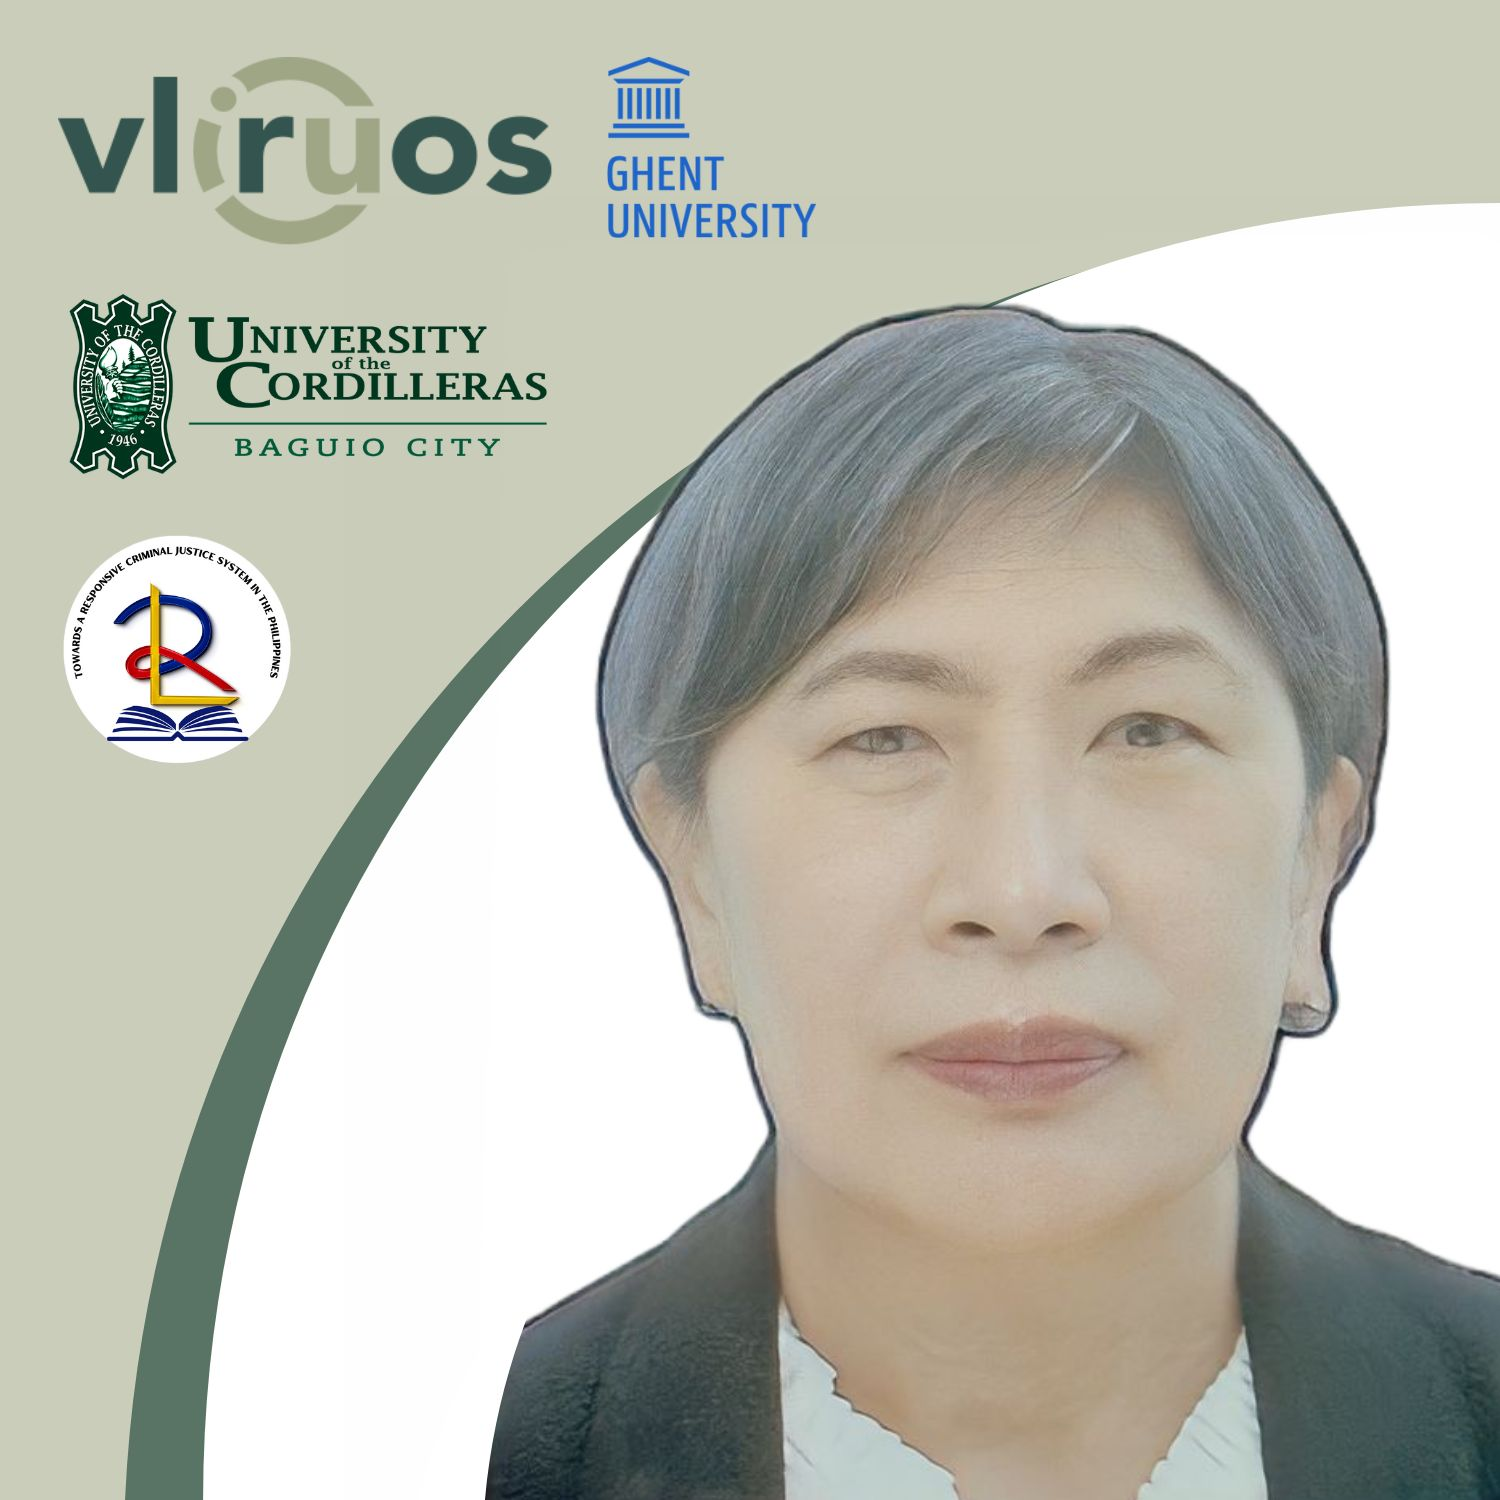
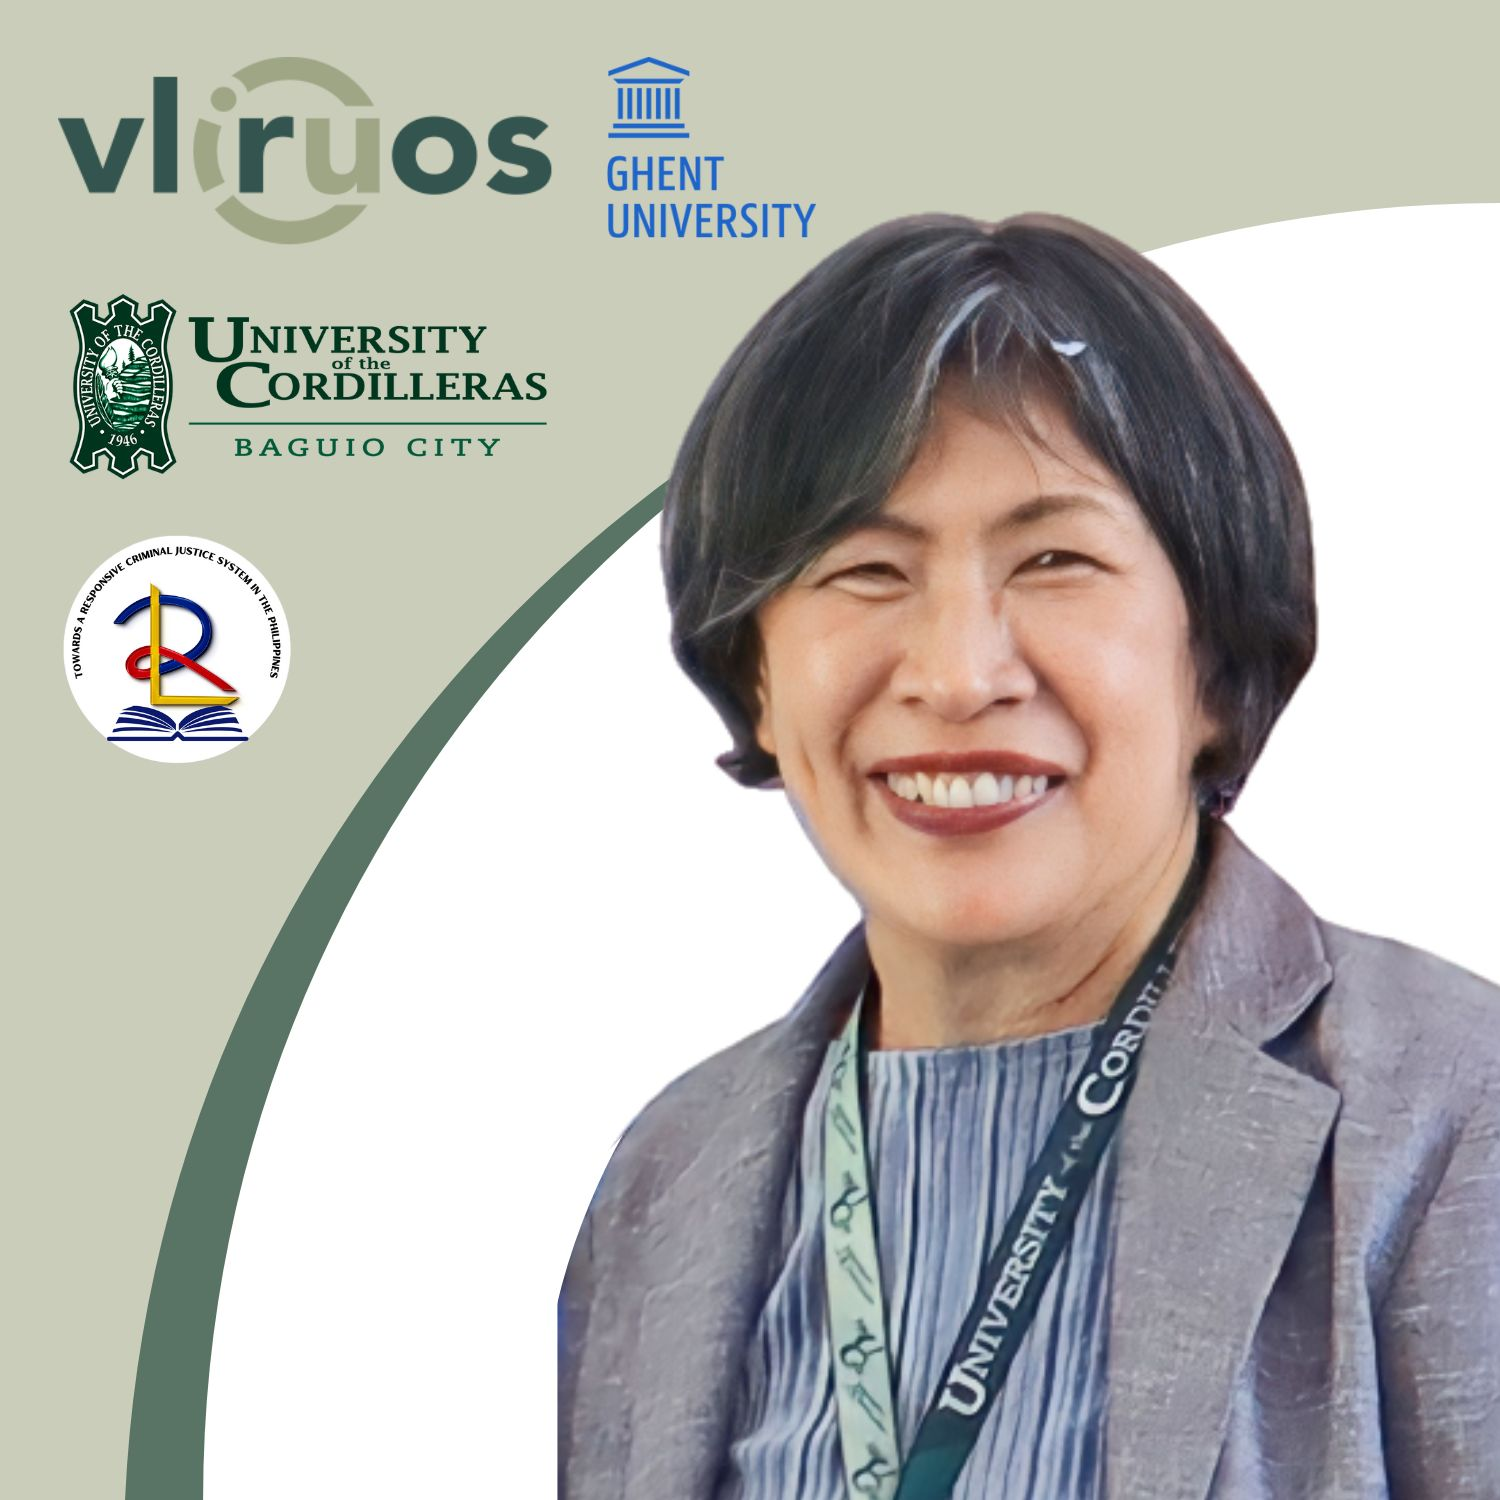
Add remaining members of UC Team, including assets, and replace photo for Ma'am Darlyn.

diff --git a/src/data/teamUC.js b/src/data/teamUC.js
@@ -11,21 +11,21 @@ const teamUC = [
     image: 'darlyn-tagarino.jpg',
     //name: "Sarah",
     title: 'Dr. Darlyn Tagarino',
-    description: 'Dr. Darlyn is a faculty of Criminal Justice Education at University of the Cordilleras. She is the Lead in Domain 5-A',
+    description: 'Dr. Darlyn is a faculty of Business Administration at University of the Cordilleras. She is the Lead in Domain 5-A.',
   },
   {
     id: 3,
     image: 'robino-cawi.jpg',
     //name: "David",
     title: 'Dr. Robino Cawi',
-    description: 'Dr. Robino is the dean of Criminal Justice Education at University of the Cordilleras. He is the Lead in Domain 1-A',
+    description: 'Dr. Robino is the dean of Criminal Justice Education at University of the Cordilleras. He is the Lead in Domain 1-A.',
   },
   {
     id: 4,
     image: 'thelma-palaoag.jpg',
     //name: "Sarah",
     title: 'Dr. Thelma Palaoag',
-    description: 'Dr. Thelma is a faculty of Information Technology and Computer Science at University of the Cordilleras. She is the Lead in Domain 2-A',
+    description: 'Dr. Thelma is a faculty of Information Technology and Computer Science at University of the Cordilleras. She is the Lead in Domain 2-A.',
   },
   {
     id: 5,
@@ -36,17 +36,45 @@ const teamUC = [
   },
   {
     id: 6,
-    image: 'anon.png',
+    image: 'cherry-cabarrubias.jpg',
     //name: "Sarah",
     title: 'Cherry Ann Cabarrubias',
-    description: 'Cherry is a faculty of Criminal Justice Education at University of the Cordilleras. She is the Lead in Domain 4',
+    description: 'Cherry is a faculty of Criminal Justice Education at University of the Cordilleras. She is the Lead in Domain 4.',
   },
   {
     id: 7,
-    image: 'anon.png',
+    image: 'chester-kingeo.jpg',
     //name: "Sarah",
     title: 'Chester King-eo',
-    description: 'Chester is a faculty of Criminal Justice Education at University of the Cordilleras. He is the Lead in Domain 6',
+    description: 'Chester is a faculty of Criminal Justice Education at University of the Cordilleras. He is the Lead in Domain 6.',
+  },
+  {
+    id: 8,
+    image: 'elizabeth-sagubo.jpg',
+    //name: "Sarah",
+    title: 'Elizabeth Sagubo',
+    description: 'Elizabeth is a faculty of Teacher Education at University of the Cordilleras. She is a Partner in Domain 1.',
+  },
+  {
+    id: 9,
+    image: 'ferdinand-lawan.jpg',
+    //name: "Sarah",
+    title: 'Dr. Ferdinand Lawan',
+    description: 'Ferdinand is a faculty of Art and Science at University of the Cordilleras. He is a Partner in Domain 1.',
+  },
+  {
+    id: 10,
+    image: 'nica-togana.jpg',
+    //name: "Sarah",
+    title: 'Nica Togana',
+    description: 'Nica is a faculty of Criminal Justice Education at University of the Cordilleras. She is a Partner in Domain 2.',
+  },
+  {
+    id: 11,
+    image: 'nisha-pamaran.jpg',
+    //name: "Sarah",
+    title: 'Nisha Pamaran',
+    description: 'Nisha is the Administrative Staff and Researcher at University of the Cordilleras.',
   }
 ];
 

diff --git a/src/pages/team.js b/src/pages/team.js
@@ -2,7 +2,7 @@ import Layout from "@/components/Layout/Layout";
 import PageHeader from "@/components/PageHeader/PageHeader";
 import MeetTheTeam from "@/components/MeetTheTeam/MeetTheTeam";
 import React from "react";
-import bg from "@/images/backgrounds/page-header-bg-1-3.jpg";
+import bg from "@/images/backgrounds/page-header-bg-1-4.jpg";
 
 const Volunteers = () => {
   return (
